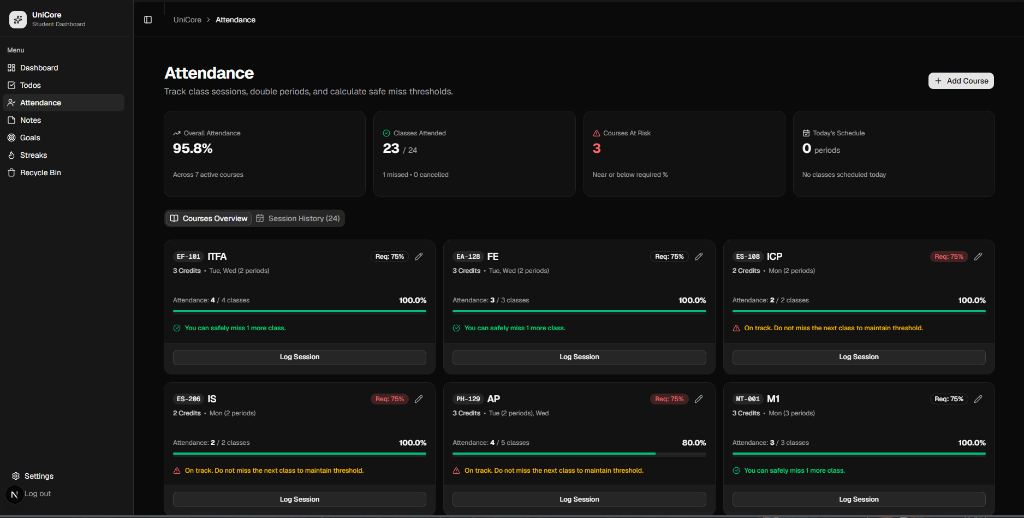
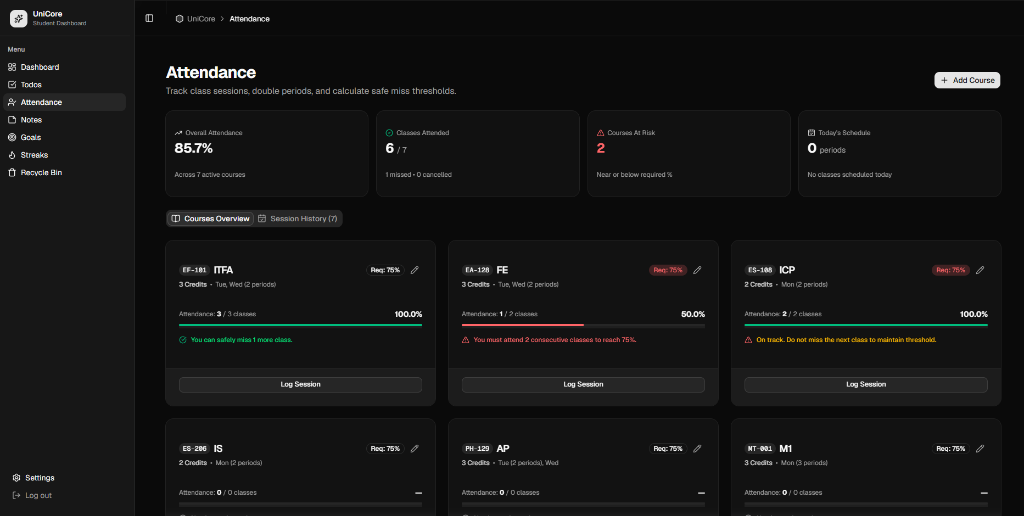
docs: add beautiful live screenshots to readme

diff --git a/README.md b/README.md
@@ -30,6 +30,27 @@ Whether you're keeping your attendance safely above the danger zone, tracking yo
 
 ---
 
+## 📸 Screenshots
+
+<details open>
+<summary><b>Click to expand</b></summary>
+<br/>
+<p align="center">
+  <img src="https://raw.githubusercontent.com/x19an/UniCore/main/public/screenshots/dashboard.png" alt="Dashboard" width="800" />
+</p>
+<p align="center">
+  <img src="https://raw.githubusercontent.com/x19an/UniCore/main/public/screenshots/attendance.png" alt="Attendance" width="800" />
+</p>
+<p align="center">
+  <img src="https://raw.githubusercontent.com/x19an/UniCore/main/public/screenshots/notes.png" alt="Notes" width="800" />
+</p>
+<p align="center">
+  <img src="https://raw.githubusercontent.com/x19an/UniCore/main/public/screenshots/login.png" alt="Login" width="800" />
+</p>
+</details>
+
+---
+
 ## 🚀 Use it Live!
 
 No need to host or configure databases yourself! UniCore is fully deployed and ready to use. 
